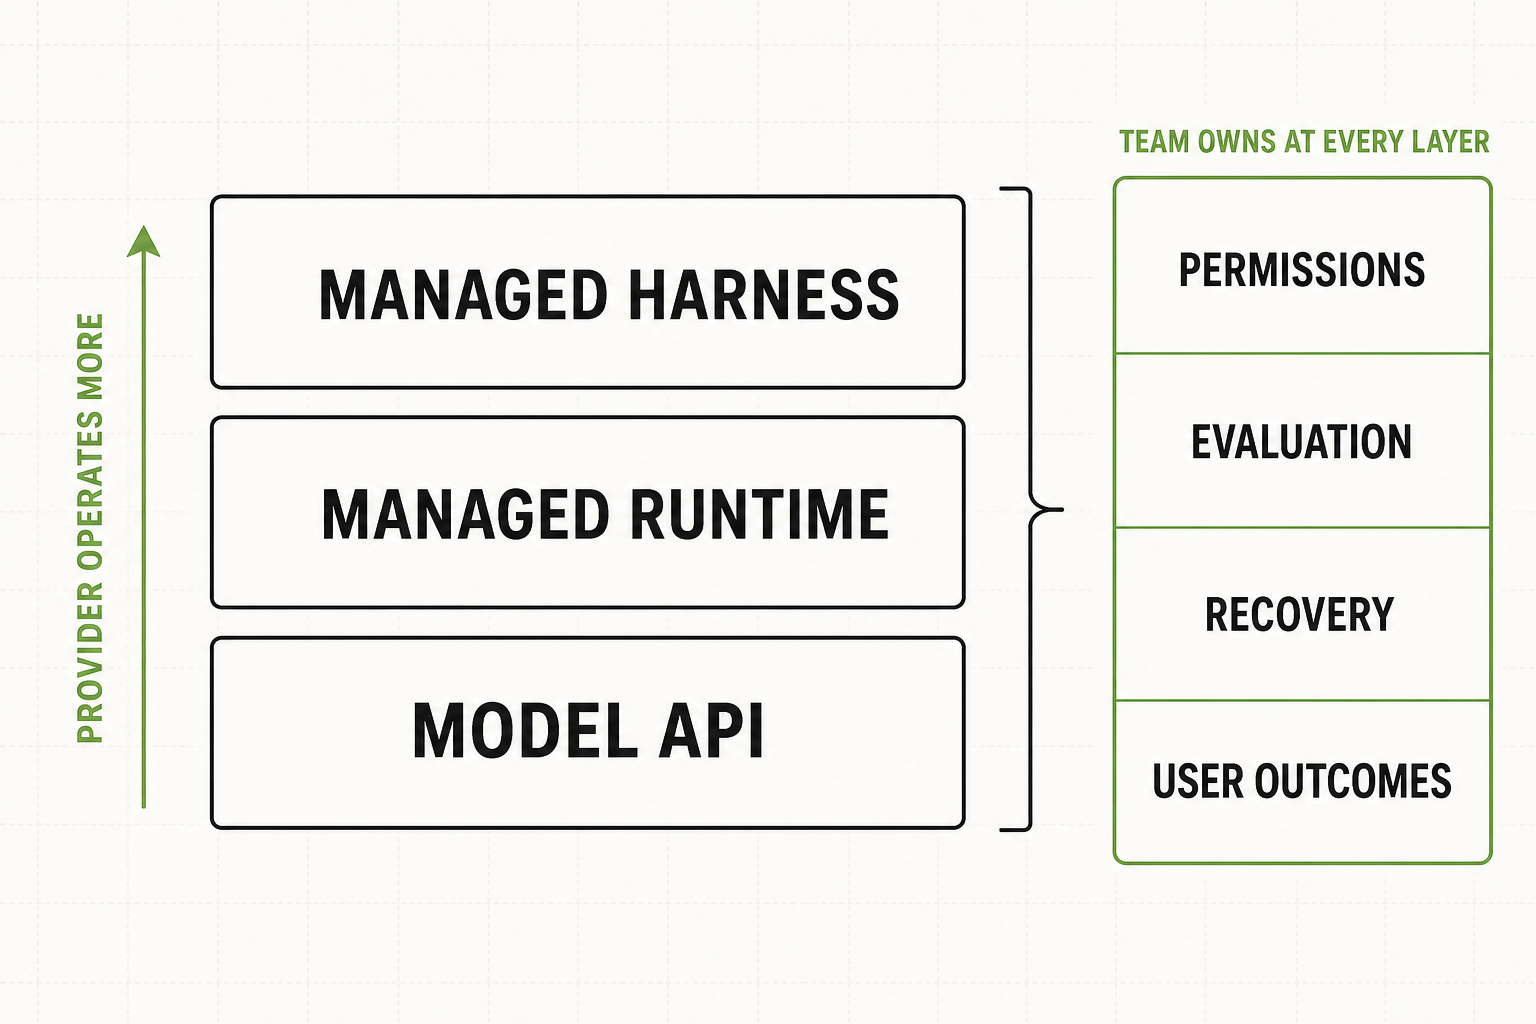
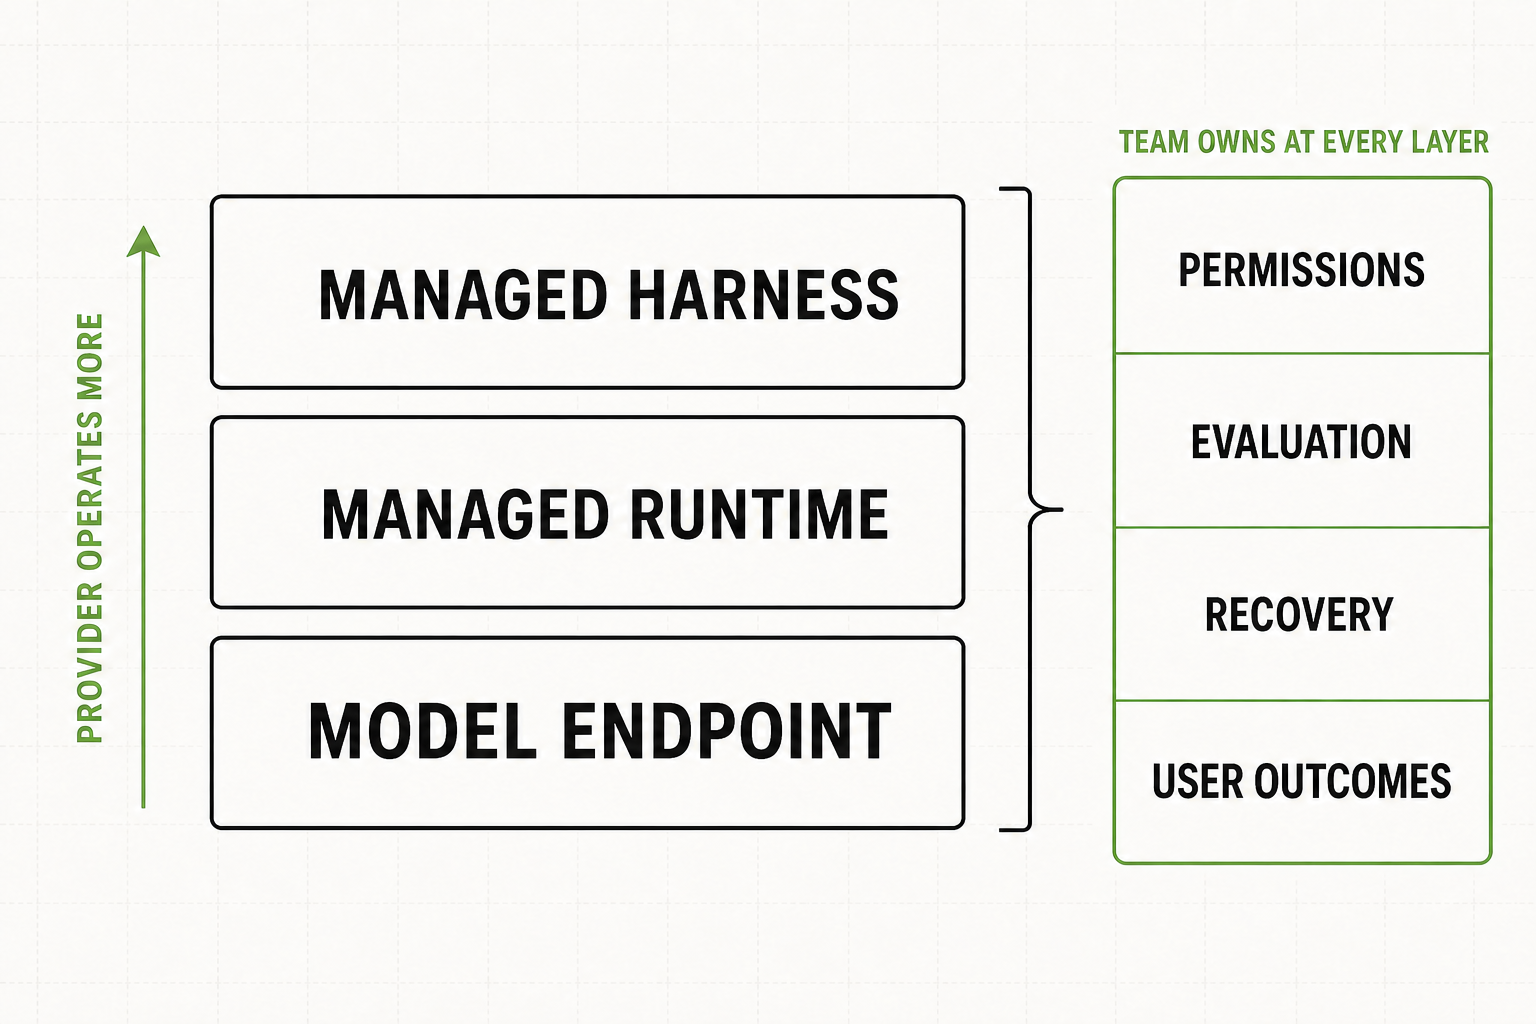
Improve managed agents decision guide

diff --git a/refs/managed-agents/README.md b/refs/managed-agents/README.md
@@ -36,17 +36,19 @@ Access date for all web sources: 2026-07-25.
 ## Claim Boundaries
 
 - The post treats "managed agent" as a responsibility boundary, not a standardized cross-vendor category.
+- "Managed model endpoint" refers only to managed inference. Products described as APIs are classified by the broader capabilities the provider actually operates.
 - "Managed agent harness" is presented as a useful layer label supported by AWS terminology, not a universal standard.
 - The vendor examples show that different managed layers exist. They are not used to claim exact feature parity.
 - Managed identity, isolation, tracing, and evaluation do not replace application authorization, testing, rollback, recovery, or human escalation.
 - The post makes no exact cost-savings, performance, safety, or reliability claims.
 - The managed, self-built, and local decision guidance is an engineering recommendation derived from the ownership boundaries explained in the article. It is not presented as a vendor-defined taxonomy.
+- "Local" refers to where the agent loop and tool execution run, not necessarily where model inference runs or whether data leaves the workstation.
 
 ## Visual Assets
 
 1. **`managed-agent-responsibility-stack.png`**
 
-   - Purpose: Show the model API, managed runtime, and managed harness as increasingly broad provider responsibility boundaries.
+   - Purpose: Show the model endpoint, managed runtime, and managed harness as increasingly broad provider responsibility boundaries.
    - Accuracy boundary: A conceptual comparison model, not a diagram of one vendor's architecture or a claim of feature parity.
 
 2. **`managed-agent-production-lifecycle.png`**
